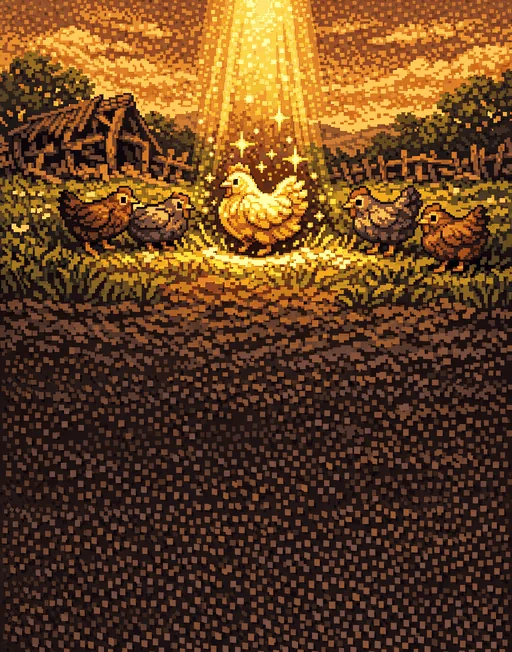
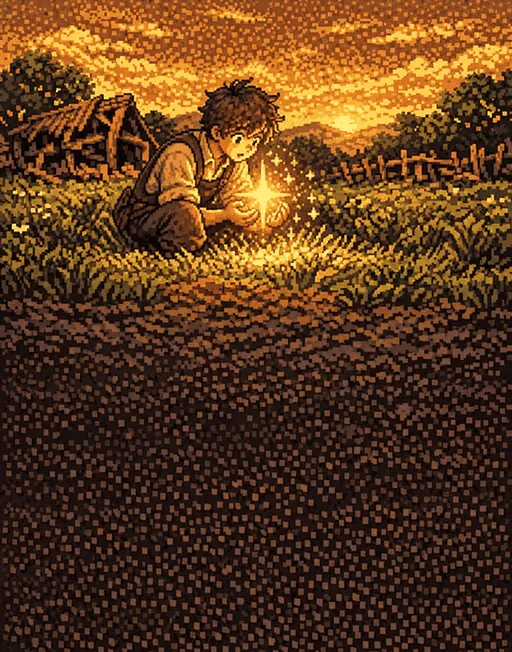
Separate staff story and make shiny discovery art universal

diff --git a/src/art_thumbs.js b/src/art_thumbs.js
@@ -41,7 +41,7 @@ const ART_THUMBS = {
[8 lines of base64/hex data omitted]
@@ -56,6 +56,7 @@ const ART_THUMBS = {
[7 lines of base64/hex data omitted]
@@ -107,7 +108,7 @@ const ART_TONES = {
   revive_fall: '#b6742d',
   revive_found: '#7e481f',
   revive_wake: '#aa6a32',
-  shiny_first: '#9c692b',
+  shiny_first: '#915c25',
   street_bandit: '#ac6023',
   street_barricade: '#8d4d27',
   street_burned: '#98531d',
@@ -122,6 +123,7 @@ const ART_TONES = {
   tool_chop: '#9c602b',
   tool_dig: '#a46329',
   tool_shoot: '#9e6226',
+  tool_staff: '#a26c3f',
   tool_sword: '#ad7d29',
   tool_till: '#a9732f',
   tool_water: '#b77230',
@@ -328,9 +330,9 @@ const ART_CUTS = {
[1 lines of base64/hex data omitted]
   ],
   shiny_first: [
[6 lines of base64/hex data omitted]
   ],
   street_bandit: [
[1 lines of base64/hex data omitted]
@@ -401,6 +403,11 @@ const ART_CUTS = {
[3 lines of base64/hex data omitted]
+  ],
+  tool_staff: [
[3 lines of base64/hex data omitted]
   ],
   tool_sword: [
[1 lines of base64/hex data omitted]

diff --git a/test/node/trap_pin.test.js b/test/node/trap_pin.test.js
@@ -59,7 +59,7 @@ const storyMethods = new Function(`return {\n${STORY_SRC},\n${TOOL_SRC}\n};`)();
 
 const TRAP_STEMS = ['trap_jaw', 'trap_free'];
 const TOOL_STEMS = ['tool_till', 'tool_chop', 'tool_dig', 'tool_water',
-                    'tool_catch', 'tool_sword', 'tool_shoot'];
+                    'tool_catch', 'tool_sword', 'tool_shoot', 'tool_staff'];
 
 // ── The pin, as source ────────────────────────────────────────────────────
 test('trap pin: the spring branch stamps _pinnedUntil 3 s out', () => {
@@ -198,12 +198,12 @@ const TOOL_TABLE = (() => {
   return rows;
 })();
 
-test('tool stories: the table has all 7 actions, each with its banner', () => {
+test('tool stories: the table has all 8 actions, each with its banner', () => {
   const want = { till: 'tool_till', chop: 'tool_chop', dig: 'tool_dig',
                  water: 'tool_water', catch: 'tool_catch', sword: 'tool_sword',
-                 shoot: 'tool_shoot' };
+                 shoot: 'tool_shoot', staff: 'tool_staff' };
   assert.eq(Object.keys(TOOL_TABLE).sort().join(','),
-            Object.keys(want).sort().join(','), 'exactly the 7 actions');
+            Object.keys(want).sort().join(','), 'exactly the 8 actions');
   for (const [action, stem] of Object.entries(want)) {
     assert.eq(TOOL_TABLE[action].art, stem, `${action} carries ${stem}`);
   }
@@ -246,7 +246,7 @@ test('tool stories: interact.js hooks fire at action start, one per call site', 
 
 test('tool stories: the auto-fire hooks the first shot loosed, not the cadence', () => {
   const push = app.indexOf('this._shots.push(shot);');
-  const call = app.indexOf("this._toolActionStory('shoot');");
+  const call = app.indexOf("this._toolActionStory(slot === 'bow' ? 'shoot' : 'staff');");
   assert.truthy(push > 0 && call > push && call < push + 400,
     "the 'shoot' story fires where the arrow actually flies");
 });
@@ -262,20 +262,22 @@ test('tool stories (behaviour): each action splashes once under its own ledger k
   const realPersist = globalThis.persistSave;
   globalThis.persistSave = () => {};
   try {
-    for (const action of ['till', 'chop', 'dig', 'water', 'catch', 'sword', 'shoot']) {
+    for (const action of ['till', 'chop', 'dig', 'water', 'catch', 'sword', 'shoot', 'staff']) {
       scene._toolActionStory(action);
     }
-    assert.eq(modals.length, 7, 'all 7 splashes opened');
+    assert.eq(modals.length, 8, 'all 8 splashes opened');
     assert.eq(scene.save.storySeen['tool:till'], 1, 'ledger key tool:till');
     assert.eq(scene.save.storySeen['tool:shoot'], 1, 'ledger key tool:shoot');
     assert.eq(modals[0].art, 'tool_till', 'till carries its banner');
     assert.eq(modals[6].art, 'tool_shoot', 'shoot carries its banner');
+    assert.eq(scene.save.storySeen['tool:staff'], 1, 'staff has an independent ledger key');
+    assert.eq(modals[7].art, 'tool_staff', 'staff carries its own banner');
     // Replays are refused.
-    for (const action of ['till', 'shoot']) scene._toolActionStory(action);
-    assert.eq(modals.length, 7, 'a seen action never replays');
+    for (const action of ['till', 'shoot', 'staff']) scene._toolActionStory(action);
+    assert.eq(modals.length, 8, 'a seen action never replays');
     // An unknown action is a silent no-op, not a crash.
     scene._toolActionStory('juggle');
-    assert.eq(modals.length, 7, 'an unknown action tells no story');
+    assert.eq(modals.length, 8, 'an unknown action tells no story');
   } finally {
     globalThis.persistSave = realPersist;
   }

diff --git a/tools/gen_story_art.js b/tools/gen_story_art.js
@@ -132,6 +132,10 @@ const PIECES = {
     scene(
     'A farmer draws a short bow and looses an arrow across a meadow, the string still ' +
     'humming, the arrow in flight, warm light.'),
+  tool_staff:
+    scene(
+    'A young farmer holds a wooden magical staff with both hands, surprised as a small ' +
+    'blue-white bolt leaves its tip across a meadow. Gentle wonder, warm sunset light. No bow or arrows.'),
   // The ONE money icon: a single JADE coin on transparency. Not a banner -
   // generated large, trimmed to its opaque bounds, downscaled to a 64px
   // runtime icon (assets/art is for banners; the coin lives under
@@ -193,9 +197,9 @@ const PIECES = {
     'vegetables to a delighted elderly neighbour; a few gold coins glint in the exchange. Warm doorway light.', 'wary'),
   shiny_first:
     scene(
-    'A rare sparkling creature — a small chicken with shimmering golden iridescent feathers — ' +
-    'bathed in a beam of light among ordinary dull ones, four-pointed golden glints floating above ' +
-    'it in a meadow at dusk. Wonder and discovery.'),
+    'A young farmer crouches in a meadow at dusk, gazing with wonder at a brilliant four-point ' +
+    'golden-white glint between cupped hands. The unknown find is completely hidden by the ' +
+    'abstract star-shaped light: no identifiable animal, item, gem, coin, egg or chicken.'),
   fire_first: scene(
     'A young survivor kneels beside a freshly lit campfire ringed with stones at dusk, flames ' +
     'leaping up and throwing a warm ring of light; at the edge of the light a green slime ' +

diff --git a/test/node/story_splashes.test.js b/test/node/story_splashes.test.js
@@ -90,6 +90,22 @@ test('story splash: the chest reward modal collapses an empty icon row', () => {
     'an empty iconHTML leaves no blank band under the banner');
 });
 
+test('story splash: bow and staff have independent first-use stories and matching art', () => {
+  const method = lift('_toolActionStory(action) {', '_toolActionStory');
+  const calls = [];
+  const scene = new Function('return ({' + method + '});')();
+  scene._storySplashOnce = (key, entry) => calls.push({ key, ...entry });
+  scene._toolActionStory('shoot');
+  scene._toolActionStory('staff');
+  assert.eq(calls[0].key, 'tool:shoot', 'bow preserves the existing save ledger key');
+  assert.eq(calls[0].art, 'tool_shoot');
+  assert.eq(calls[1].key, 'tool:staff', 'staff has its own ledger key');
+  assert.eq(calls[1].art, 'tool_staff');
+  assert.truthy(calls[0].body !== calls[1].body, 'each weapon tells its own story');
+  assert.truthy(/if \(shot\) \{\s*this\._shots\.push\(shot\);[\s\S]{0,260}this\._toolActionStory\(slot === 'bow' \? 'shoot' : 'staff'\)/.test(app),
+    'successful shots choose the story for their weapon');
+});
+
 // ── The art files exist ───────────────────────────────────────────────────
 test('story splash: every art stem app.js names exists as a WebP in assets/art/', () => {
   const stems = new Set();

diff --git a/src/app.js b/src/app.js
@@ -4743,9 +4743,9 @@ class MapScene extends Phaser.Scene {
         }
         if (shot) {
           this._shots.push(shot);
-          // First bow/staff shot a save ever looses tells its story, here at
-          // the moment the arrow flies - not on equip, not on a dry cadence.
-          this._toolActionStory('shoot');
+          // Keep the bow's existing ledger key; the staff gets its own first shot.
+          // Only a fired projectile tells the story, never equip or a dry cadence.
+          this._toolActionStory(slot === 'bow' ? 'shoot' : 'staff');
         }
       }
     } else {
@@ -8256,6 +8256,8 @@ class MapScene extends Phaser.Scene {
                body: 'Gentle does it.' },
       sword: { art: 'tool_sword', title: 'Steel out',
                body: 'Your first swing lands true.' },
+      staff: { art: 'tool_staff', title: 'First spark',
+               body: 'A spark gathers at the tip. Hold steady, and the staff answers with light.' },
       shoot: { art: 'tool_shoot', title: 'Loose!',
                body: 'Your hand steadies. With a foe near, the bow seems to know when to loose.' },
     };

diff --git a/index.html b/index.html
@@ -2704,7 +2704,7 @@
   <script src="src/sandbox.js?v=31c599de"></script>
   <script src="src/testtools.js?v=e112a59e"></script>
   <script src="src/geo.js?v=0a205c42"></script>
-  <script src="src/art_thumbs.js?v=a5478138"></script>
+  <script src="src/art_thumbs.js?v=2f594b68"></script>
   <script src="src/modal_shell.js?v=82b09ccb"></script>
   <script src="src/scene_geo.js?v=96439ff3"></script>
   <script src="src/npc.js?v=872e4d7c"></script>
@@ -2769,7 +2769,7 @@
     // The fix comes from the shared Geo watcher, so the scene's own GPS
     // tracking joins that same watch — one watchPosition per page, one prompt.
     (function () {
-      const APP_SRC = 'src/app.js?v=8e3d48e0';
+      const APP_SRC = 'src/app.js?v=ed6d0f12';
       // How long the gate waits for that first fix before giving up and
       // booting at the default origin. A cold GPS start can take far longer
       // than this indoors, so app.js keeps its capture-then-reload path as a

diff --git a/sw.js b/sw.js
@@ -9,7 +9,7 @@
 //      so they're safe to cache forever. Strategy: cache-first with network
 //      fallback. This makes a visited region playable offline.
 
-const SHELL_VERSION = 'shell-4deaf1f6';
+const SHELL_VERSION = 'shell-5f78e7ea';
 const TILE_CACHE    = 'tiles-v1';
 // How old a cached tile may get before it is refreshed IN THE BACKGROUND. It
 // is never an expiry: a stale tile is still served, and a failed refresh keeps
